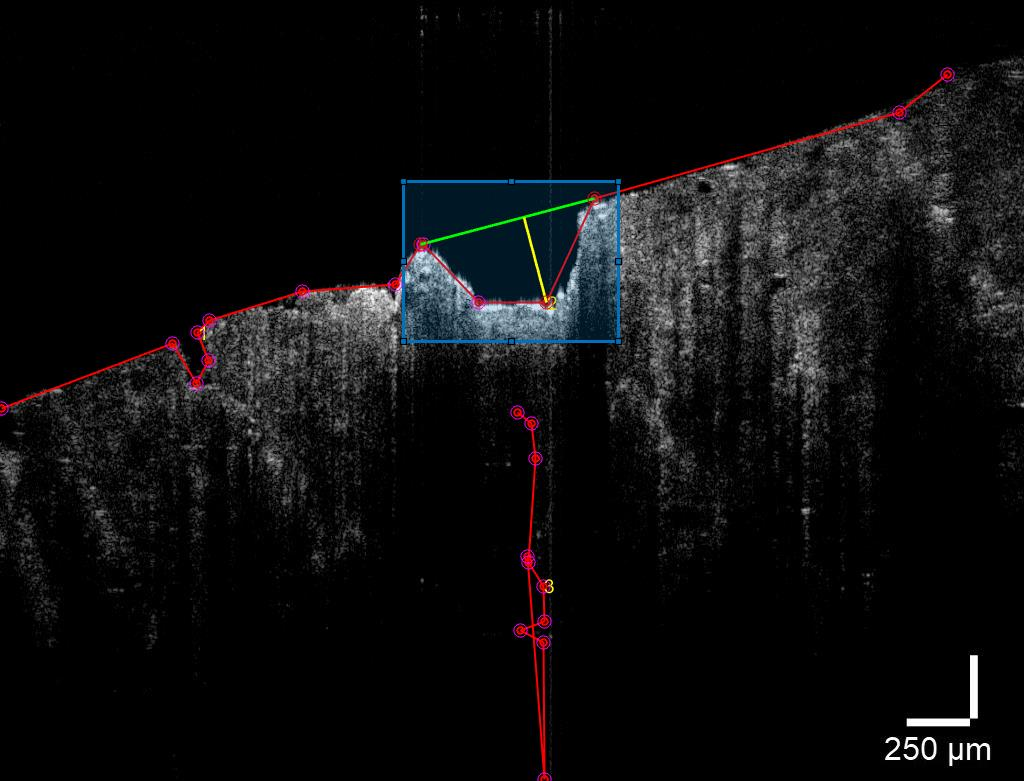
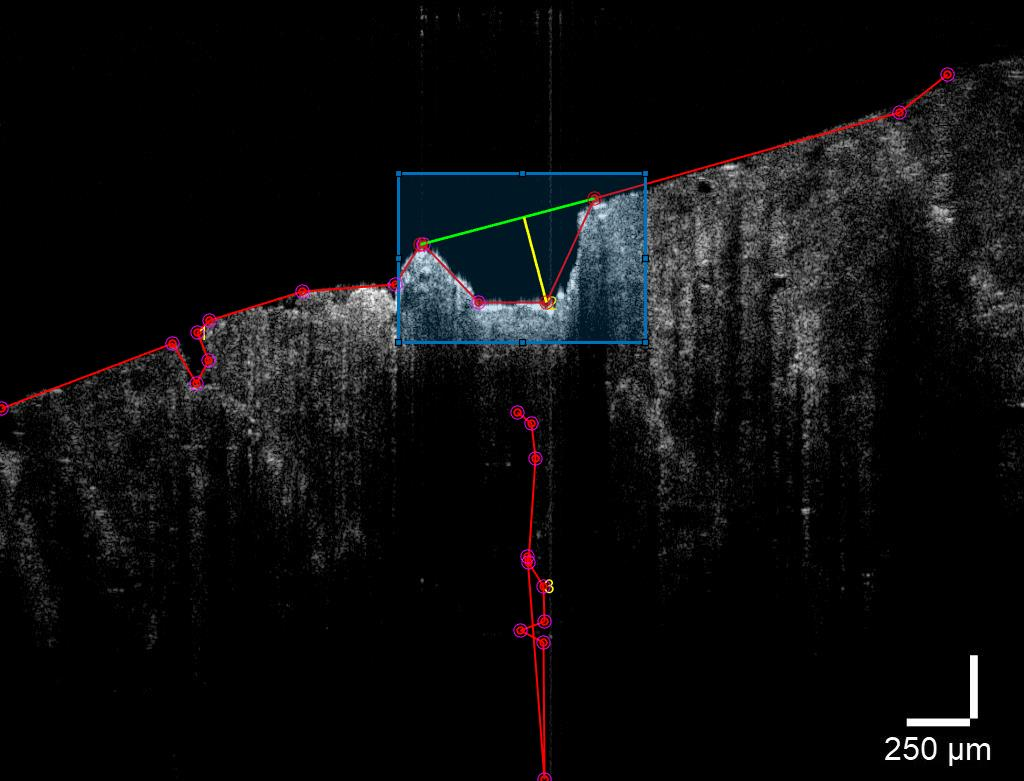
saving data in YoloV5

Changed region(s): [[0.375, 0.2151, 0.6562, 0.4609]]

diff --git a/matlabCustomFunctions/depthEstimationFrom2D.m b/matlabCustomFunctions/depthEstimationFrom2D.m
@@ -1,4 +1,4 @@
-function [depth_points, perpendicular_distances] = depthBounding(folderPath, filename)
+function [depth_points, perpendicular_distances] = depthEstimationFrom2D(folderPath, filename)
     %% 1. Detect the ablate surface -> Binary, Dilate, Erode, edge, Contnour. 
     fullPath = fullfile(folderPath, filename);
     % Separate the filename into name and extension
@@ -12,6 +12,10 @@ function [depth_points, perpendicular_distances] = depthBounding(folderPath, fil
     final_image_name = strcat(name, 'final', ext);
     final_image_filename = fullfile(folderPath, final_image_name);
 
+    % Create new filename for the corresponding text file
+    txt_name = strcat(name, 'middle', '.txt');
+    txt_filename = fullfile(folderPath, txt_name);
+
     depthI = imread(fullPath);
 
     % Check if the image is RGB
@@ -19,6 +23,8 @@ function [depth_points, perpendicular_distances] = depthBounding(folderPath, fil
         % Convert RGB to grayscale
         depthI = rgb2gray(depthI);
     end
+
+    [img_height, img_width, ] = size(depthI);
 
     % Convert the intensity data to binary image
     BW = imbinarize(depthI, 'adaptive');
@@ -135,7 +141,18 @@ function [depth_points, perpendicular_distances] = depthBounding(folderPath, fil
     ymin = position(2);
     xmax = xmin + position(3);
     ymax = ymin + position(4);
-    
+
+    % Normalize the coordinates and dimensions
+    center_x = (xmin + xmax) / 2 / img_width;
+    center_y = (ymin + ymax) / 2 / img_height;
+    width = (xmax - xmin) / img_width;
+    height = (ymax - ymin) / img_height;
+
+    class_id = 1;  % Replace with the actual class ID if needed
+    fileID = fopen(txt_filename, 'w');
+    fprintf(fileID, '%d %f %f %f %f\n', class_id, center_x, center_y, width, height);
+    fclose(fileID);
+  
     % Filter the contour points that are within the bounding box
     idx = ablate_surface_combined(:, 2) >= xmin & ablate_surface_combined(:, 2) <= xmax & ...
           ablate_surface_combined(:, 1) >= ymin & ablate_surface_combined(:, 1) <= ymax;

diff --git a/untitled.m b/untitled.m
@@ -11,4 +11,4 @@ final_image_filename = fullfile(folderPath, [name 'final' ext]);  % Use the dyna
 % Plotting the final_image
 figure;
 imshow(imread(final_image_filename));
-title('Ablated Surfaces (Red), Top Layer (Green), and Depth (Yellow) on Depth Image');
+title('Ablated Surfaces (Red), Top Layer (Green), and Depth (Yellow) on Depth Image')
